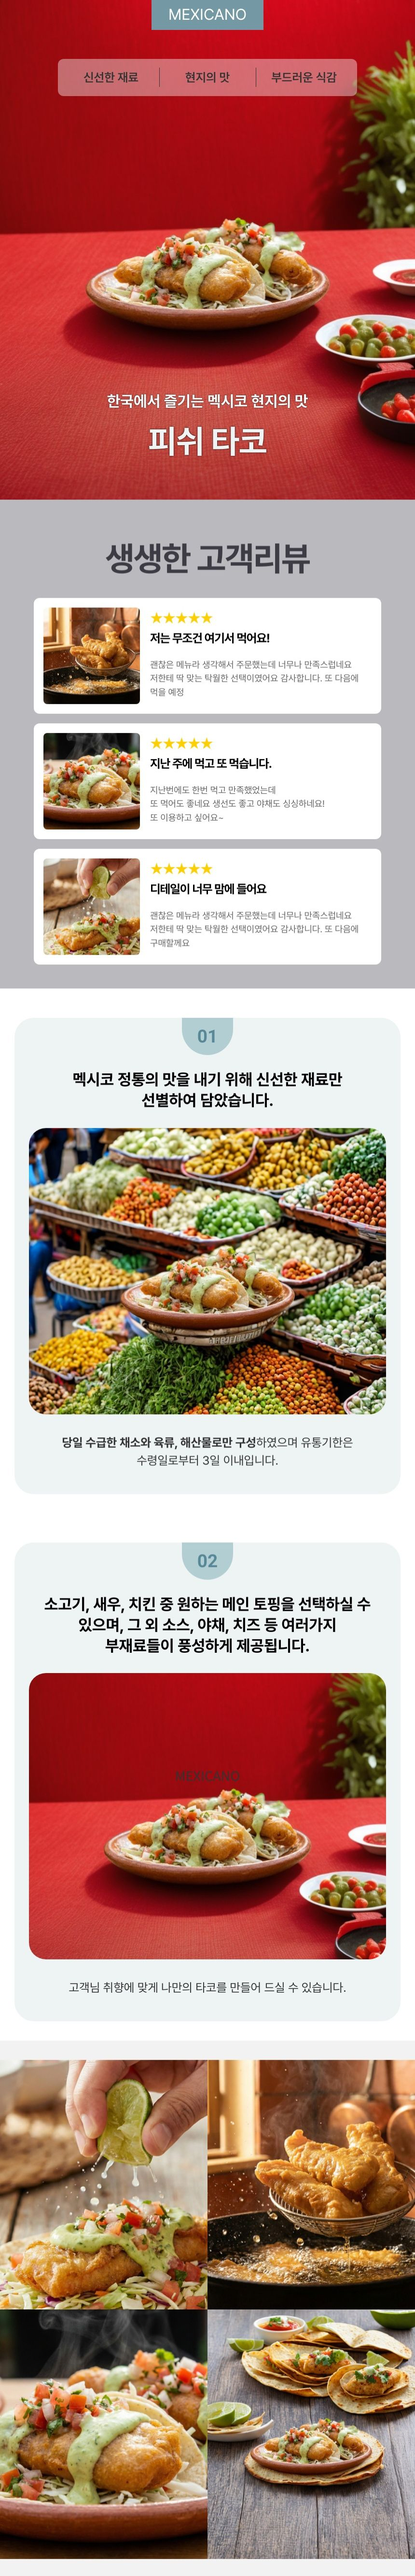
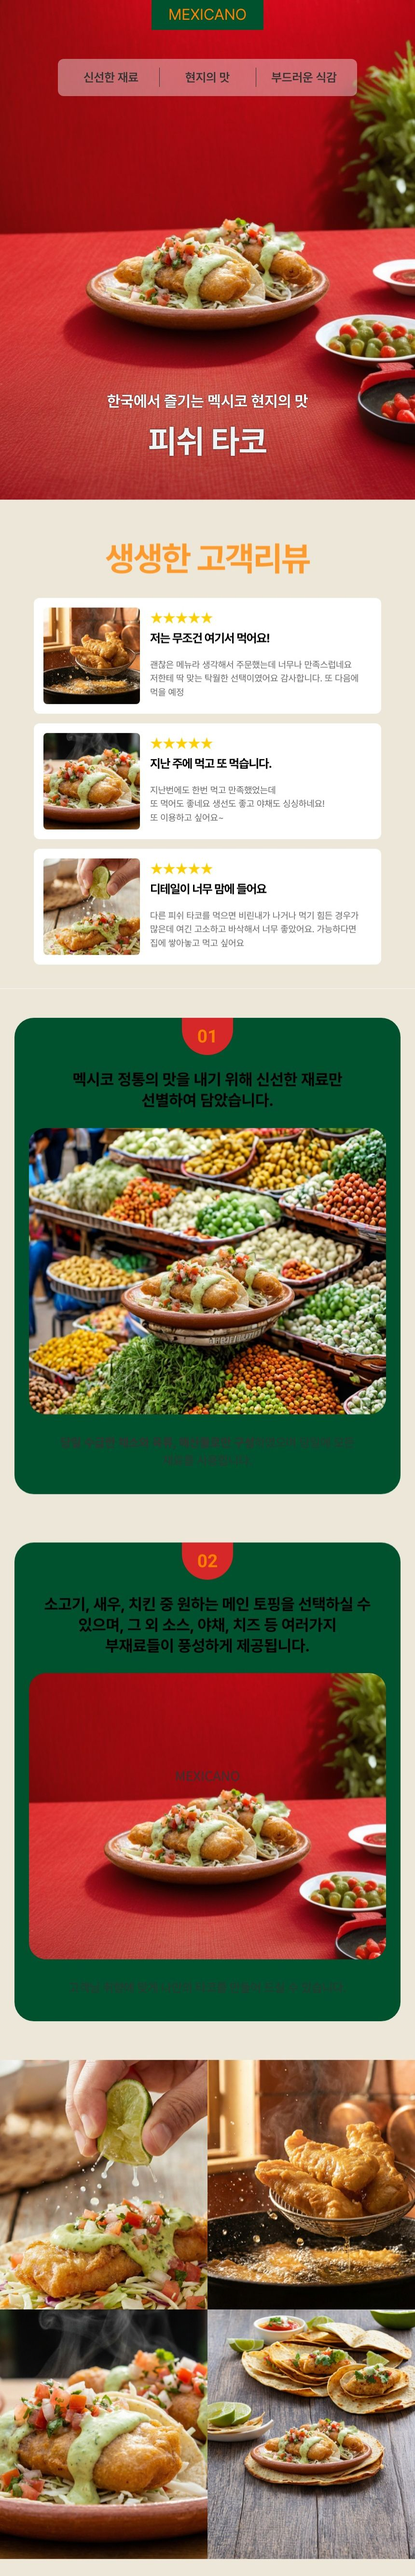
Update fish-taco-detail.jpg and redesign detail page for cleaner look
- Replace fish-taco-detail.jpg with new image file
- Remove heavy borders and unnecessary decorations
- Simplify layout with natural spacing
- Remove emoji icons and excessive styling
- Create clean, modern menu detail page design

diff --git a/app/dime/menu-demo/page.tsx b/app/dime/menu-demo/page.tsx
@@ -406,9 +406,9 @@ export default function MenuDemoPage() {
               </div>
 
               {/* 메인 컨텐츠 */}
-              <div className="max-w-5xl mx-auto pb-8">
+              <div className="max-w-4xl mx-auto pb-12 px-4">
                 {/* 이미지/영상 섹션 */}
-                <div className="relative w-full bg-[#ede7d9] flex items-center justify-center" style={{ minHeight: '400px' }}>
+                <div className="relative w-full flex items-center justify-center mb-8">
                   {selectedItem.video ? (
                     <video
                       className="w-full h-auto"
@@ -433,90 +433,70 @@ export default function MenuDemoPage() {
                     </div>
                   )}
                   {selectedItem.isBest && (
-                    <div className="absolute top-6 left-6 bg-[#f77f02] text-white px-6 py-3 text-lg font-black uppercase tracking-wider shadow-2xl">
-                      ⭐ BEST
+                    <div className="absolute top-4 left-4 bg-[#f77f02] text-white px-4 py-2 text-sm font-bold uppercase tracking-wider">
+                      BEST
                     </div>
                   )}
                 </div>
 
-                {/* 상품 정보 카드 */}
-                <div className="bg-white border-8 border-[#00512e] mx-4 mt-6 p-8 shadow-2xl">
-                  {/* 상단: 카테고리와 이름 */}
-                  <div className="mb-6">
-                    <div className="inline-block bg-[#f77f02] text-white px-5 py-2 text-base font-black uppercase tracking-wider mb-4 shadow-md">
+                {/* 상품 정보 */}
+                <div className="space-y-8">
+                  {/* 이름과 가격 */}
+                  <div>
+                    <div className="text-sm text-[#00512e]/70 font-semibold uppercase tracking-wider mb-2">
                       {selectedItem.category[language]}
                     </div>
-                    <div className="flex justify-between items-start">
-                      <h2 className="text-5xl md:text-6xl font-black text-[#00512e] tracking-tight uppercase flex-1">
+                    <div className="flex justify-between items-start mb-4">
+                      <h2 className="text-4xl md:text-5xl font-black text-[#00512e] tracking-tight flex-1">
                         {selectedItem.name[language]}
                       </h2>
                       {selectedItem.spicyLevel > 0 && (
-                        <div className="flex flex-col items-end bg-[#ede7d9] px-5 py-3 rounded-lg ml-4">
+                        <div className="flex items-center gap-2 ml-4">
                           <SpicyLevel level={selectedItem.spicyLevel} />
-                          <span className="text-sm text-[#d62829] mt-2 font-black uppercase tracking-wider">
-                            {t.spicyLevels[selectedItem.spicyLevel - 1]}
-                          </span>
                         </div>
                       )}
                     </div>
-                  </div>
-
-                  {/* 가격 */}
-                  <div className="mb-8 pb-8 border-b-4 border-[#ede7d9]">
-                    <div className="flex items-baseline gap-3">
-                      <span className="text-6xl font-black text-[#d62829]">₩{selectedItem.price}</span>
-                      <span className="text-2xl text-[#00512e] font-bold">{language === 'ko' ? '원' : 'KRW'}</span>
+                    <div className="text-3xl font-black text-[#d62829]">
+                      ₩{selectedItem.price}
                     </div>
                   </div>
 
                   {/* 설명 */}
-                  <div className="mb-8">
-                    <h3 className="text-2xl font-black text-[#00512e] uppercase mb-4 tracking-wider flex items-center gap-2">
-                      <span>📝</span> {language === 'ko' ? '상세 설명' : 'Description'}
-                    </h3>
-                    <p className="text-[#00512e] leading-relaxed font-semibold text-xl bg-[#ede7d9] p-6 rounded-lg">
+                  <div>
+                    <p className="text-[#00512e] leading-relaxed text-lg">
                       {selectedItem.description[language]}
                     </p>
                   </div>
 
                   {/* 알레르기 정보 */}
                   {selectedItem.allergens && (
-                    <div className="mb-8">
-                      <h3 className="text-2xl font-black text-[#00512e] uppercase mb-4 tracking-wider flex items-center gap-2">
-                        <span>⚠</span> {language === 'ko' ? '알레르기 정보' : 'Allergen Info'}
-                      </h3>
-                      <div className="bg-[#f77f02] p-5 rounded-lg">
-                        <p className="text-white font-bold text-lg">
-                          {selectedItem.allergens[language]}
-                        </p>
+                    <div className="pt-4 border-t border-[#ede7d9]">
+                      <div className="text-sm text-[#00512e]/70 font-semibold uppercase tracking-wider mb-2">
+                        {language === 'ko' ? '알레르기 정보' : 'Allergen Info'}
                       </div>
+                      <p className="text-[#00512e] text-base">
+                        {selectedItem.allergens[language]}
+                      </p>
                     </div>
                   )}
 
                   {/* 상세 이미지 */}
                   {selectedItem.detailImage && (
-                    <div className="mb-8">
-                      <h3 className="text-2xl font-black text-[#00512e] uppercase mb-4 tracking-wider flex items-center gap-2">
-                        <span>🍴</span> {language === 'ko' ? '상세 정보' : 'Detail Information'}
-                      </h3>
-                      <div className="w-full">
-                        <img
-                          src={selectedItem.detailImage}
-                          alt={`${selectedItem.name[language]} detail`}
-                          className="w-full h-auto"
-                          style={{ display: 'block', maxWidth: '100%', height: 'auto' }}
-                        />
-                      </div>
+                    <div className="pt-4">
+                      <img
+                        src={selectedItem.detailImage}
+                        alt={`${selectedItem.name[language]} detail`}
+                        className="w-full h-auto"
+                        style={{ display: 'block', maxWidth: '100%', height: 'auto' }}
+                      />
                     </div>
                   )}
 
                   {/* 데모 안내 */}
-                  <div className="border-t-4 border-[#ede7d9] pt-6">
-                    <div className="bg-[#00512e] p-6 rounded-lg text-center">
-                      <p className="text-[#ede7d9] font-bold text-lg leading-relaxed">
-                        {t.demoNote}
-                      </p>
-                    </div>
+                  <div className="pt-8 border-t border-[#ede7d9]">
+                    <p className="text-[#00512e]/70 text-sm text-center">
+                      {t.demoNote}
+                    </p>
                   </div>
                 </div>
               </div>
